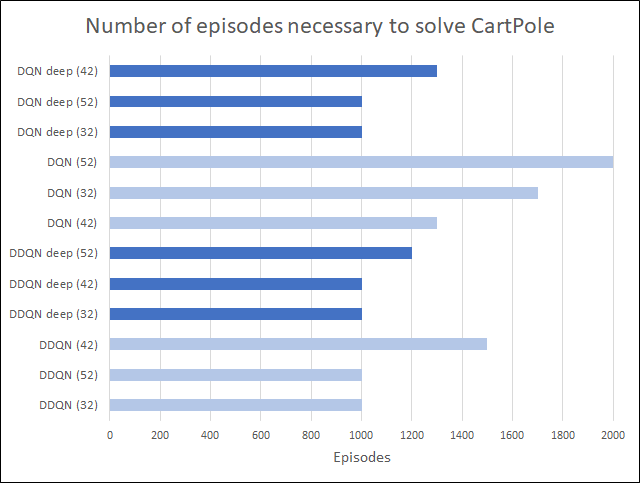
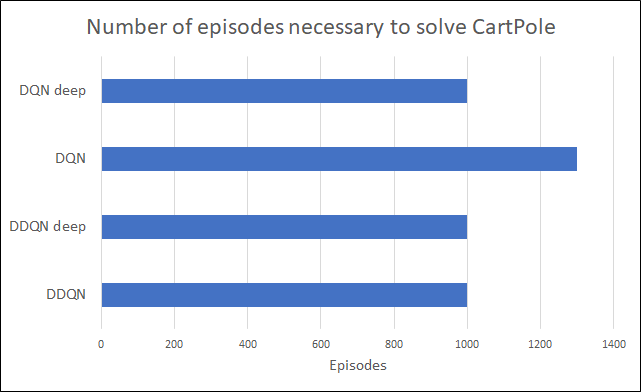
Added sec issues, conclude conclusion

diff --git a/sections/results.tex b/sections/results.tex
@@ -10,7 +10,7 @@ A more interesting viewpoint is the overestimation issue. If the reward is nonze
 
 From Figure~\ref{fig:q-values} we can see that the trends of all the configuration is to converge to 100. As described by \citeauthor{Hasselt:2016:DRL:3016100.3016191} \shortcite{Hasselt:2016:DRL:3016100.3016191} the Double Q-learning reduces the overestimation, in particular for the \textit{Double DQN deep} configuration, the \textit{DQN deep} suffers definitely of overestimation. For \textit{DQN shallow} configurations instead the differences are small, maybe the differences could start in later epochs.
 
-\begin{figure*}[t]
+\begin{figure*}[]
 	\centering
 	\subfloat{\includegraphics[width=.48\textwidth]{res/DQN_Shallow}} \quad
 	\subfloat{\includegraphics[width=.48\textwidth]{res/DoubleDQN_Shallow}} \\
@@ -29,13 +29,40 @@ From Figure~\ref{fig:q-values} we can see that the trends of all the configurati
 \subsection{Evaluation}
 
 % Theses:
-From the results of evaluation (Figure~\ref{fig:comparison}) of the model we can see that our \textit{DQN deep} is better for all the seeds. The model after 1000 episodes of learning is able to \textit{solve} the \textit{CartPole} problem. It is a good result considering that we not tuned the algorithm hyperparameters.
-
-A further interesting fact that emerges from the Figure~\ref{fig:comparison} is that a different seed could imply a good or a bad learning process. The \textit{DQN shallow} configuration showed that for the best seed it needs 1300 episode in order to solve the problem while with the seed 52 it needs 2000 episode. This is caused from a great component of randomness in the DQN algorithm: the probability involves in \textit{$\epsilon$-greedy}, the random selection of mini-batches from the \textit{experience replay} dataset, the random initialization of the parameter of the Q network and the randomness in the environment.
+From the results of evaluation (Figure~\ref{fig:comparison}) of the model we can see that \textit{double} and \textit{deep} settings have the better results. The learning agents, after 1000 episodes are able to \textit{solve} the \textit{CartPole} problem. It is a good result considering that we not tuned the algorithm hyperparameters. However we consider the best model from 3 run with different seed. 
 
 \begin{figure}
 	\centering
 	\includegraphics[width=0.48\textwidth]{res/Comparison}
-	\caption{text}
+	\caption{Number of episodes necessary to solve the \textit{CartPole} problem for each configuration. The value is selected from the best runs.}
 	\label{fig:comparison}
 \end{figure}
+
+In fact from the Table~\ref{tab:comparison_table} emerges that a different seed could imply a good or a bad learning process. The \textit{DQN shallow} configuration showed that for the best seed it needs 1300 episode in order to solve the problem while with the seed 52 it needs 2000 episode. This is caused from a great component of randomness in the DQN algorithm: the probability involves in \textit{$\epsilon$-greedy}, the random selection of mini-batches from the \textit{experience replay} dataset, the random initialization of the parameter of the Q network and the randomness in the environment.
+
+\begin{table}
+	\centering
+	\begin{tabular}{|c|c|c|c|}
+		\hline
+		\textbf{Configuration} & \textbf{Seed} & \textbf{Good models} & \textbf{Solved (Ep.)} \\
+		\hline
+			 & 32 & 10 / 35 & 1000 \\
+		DDQN & 42 & 6 / 35 & 1500 \\
+			 & 52 & 6 / 35 & 1000 \\
+		\hline
+		 		& 32 & 13 / 35 & 1000 \\
+		DDQN deep  & 42 & 10 / 35 & 1000 \\
+				  & 52 & 12 / 35 & 1200 \\
+		\hline
+			& 32 & 5 / 35 & 1700 \\
+		DQN	& 42 & 3 / 35 & 1300 \\
+			& 52 & 5 / 35 & 2000 \\
+		\hline
+				 & 32 & 12 / 35 & 1000 \\
+		DQN deep & 42 & 11 / 35 & 1000 \\
+				 & 52 & 6 / 35 & 1300 \\
+		\hline
+	\end{tabular}
+	\caption{Results from evaluation. For each configuration with a seed, a model every 100 episode was evaluated. Good models represent the number of models that solved the \textit{CartPole} problem. Solved column shows the number of episodes necessary for obtaining the first solving model.}
+	\label{tab:comparison_table}
+\end{table}

diff --git a/sections/conclusions.tex b/sections/conclusions.tex
@@ -5,14 +5,4 @@ An algorithm that achieved state-of-the-art performance in the \textit{Atari Emu
 
 We implemented the DQN algorithm and we tried to explore its potential in the toy control environment \textit{CartPole}. Without the need of tuning we showed that DQN was able to solve the problem with discrete results. We shows also that the introduction of the Double DQN improve a little the performance and comparing to DQN algorithm reduce the overestimation as \citeauthor{Hasselt:2016:DRL:3016100.3016191} \shortcite{Hasselt:2016:DRL:3016100.3016191} demonstrated.
 
-We faced several issues. In particular after an initial effort for understanding the RL area, we had difficulties on debugging, a typical intrinsic issue in DRL area~\cite{rlblogpost} and on interpreting the noisy Data. Long testing times strongly limited the number of configurations analysed.
-
-
-
-%The difficult to interpret the results, in order to see better the convergence we have to take the average Q-value from 64 steps, and still we have problem because the graphics may fool the conclusion in two ways: first we haven't guarantees that in the next steps not computed the Q-value estimates won't have weird behaviours. Give a look to the bottom right plot in Figure~\ref{fig:q-values} after 12000 epochs, we need to compute the next epoch in order to have valid empirical results and this implies longer time. 
-
-
-
-%The stochasticity sometimes causes to drastically change the outcomes hence we can have good model and bad model with the same exact algorithm implementation. Take in consideration more seeds can help but this implies the use of more resources. 
-
-%From all that critiques is clear that Deep Reinforcement Learning is still an academic research area that still not ready to found application in businesses. Besides that the recent progress shown that probably in the future we at least have auto-learning bot in videogames.
+Despite the issues faced with data and debugging, with this experiment we have seen how DQN algorithm can be considered a base for carrying on future researches in this area. 

diff --git a/sections/issues.tex b/sections/issues.tex
@@ -1,0 +1,9 @@
+
+\section{Issues}
+
+We faced several issues. In particular after an initial effort for understanding the RL area, we had difficulties on debugging, a typical intrinsic issue in Deep Reinforcement Learning area~\cite{rlblogpost} and on interpreting the noisy Data. In fact in order to see better the convergence we have to take the average Q-value from 64 steps.
+
+Another issues is that we have no guarantees that in the next not computed steps the Q-value estimates will not have weird behaviours. An example is the bottom right plot in Figure~\ref{fig:q-values} where after 12000 epoch it seems like a bad behaviour is happening.
+
+Furthermore long testing times due to unoptimized code and limited hardware resources strongly restricted the number of configurations that we analysed.
+

diff --git a/paper.tex b/paper.tex
@@ -34,6 +34,7 @@ Via Trieste, 63, 35121 Padova - Italy\\
 \input{sections/background}
 \input{sections/experiments}
 \input{sections/results}
+\input{sections/issues}
 \input{sections/future}
 \input{sections/conclusions}
 
